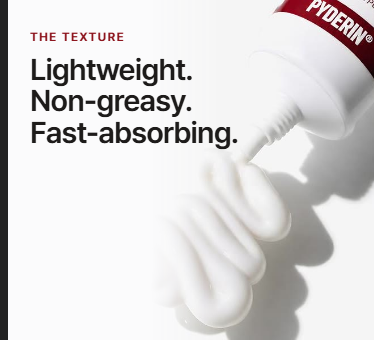
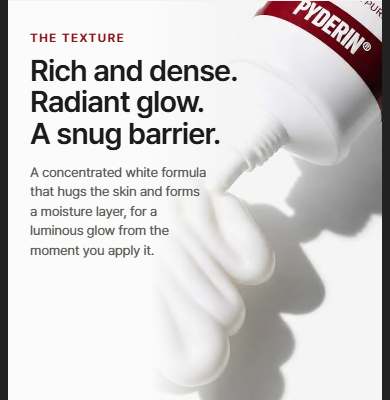
메인 제형 칸 문구 교체: W/O 제형(농축감·윤광·밀착 보호막)

diff --git a/review/index.html b/review/index.html
@@ -55,7 +55,8 @@
 </table></div></div>
 <div class="blk"><div><h2>3. 제형</h2><img src="sec/s03.png" alt=""></div><div class="scroll"><table><tr><th>번호</th><th>위치</th><th>국문 원문</th><th>영문 (가안)</th><th>근거·출처</th><th>확인 요청 사항</th><th>상품기획팀 확인</th><th>해외영업팀 영문 검수</th></tr>
 <tr><td>3-1</td><td class="pos">꼬리표</td><td class="ko">제형</td><td class="en">THE TEXTURE</td><td class="src"></td><td class="ask"></td><td class="box"></td><td class="box"></td></tr>
-<tr><td>3-2</td><td class="pos">큰 글자</td><td class="ko">가볍게. 끈적임 없이. 빠르게 흡수.</td><td class="en">Lightweight. Non-greasy. Fast-absorbing.</td><td class="src">미국 상품 페이지 특징란 표현</td><td class="ask">리프트 크림 제형 설명으로 세 표현이 모두 맞는지</td><td class="box"></td><td class="box"></td></tr>
+<tr><td>3-2</td><td class="pos">큰 글자</td><td class="ko">풍부한 농축감. 압도적인 광채. 탄탄한 밀착 보호막.</td><td class="en">Rich and dense. Radiant glow. A snug barrier.</td><td class="src">상품기획팀 전달 문안(11/11): 실제 제품은 W/O 제형, 끈적임 있음. 기존 &#x27;가볍고 산뜻한&#x27; 문구 교체</td><td class="ask">영문에서 &#x27;압도적인&#x27;은 과장 표현 규정 때문에 &#x27;Radiant&#x27;로 낮췄습니다. 괜찮은지</td><td class="box"></td><td class="box"></td></tr>
+<tr><td>3-3</td><td class="pos">설명 문장</td><td class="ko">피부를 쫀쫀하게 감싸 안는 고농축 백색 포뮬러가 보습막을 형성해 바르는 즉시 눈부신 극강의 윤광을 완성합니다.</td><td class="en">A concentrated white formula that hugs the skin and forms a moisture layer, for a luminous glow from the moment you apply it.</td><td class="src">상품기획팀 전달 문안(11/11)</td><td class="ask">미국 크림 상품 페이지 4번째 이미지에 &#x27;Non-sticky(끈적임 없음)&#x27; 문구가 남아 있습니다. 상품 페이지도 고칠지</td><td class="box"></td><td class="box"></td></tr>
 </table></div></div>
 <div class="blk"><div><h2>4. 전문성 (병의원·약국)</h2><img src="sec/s04.png" alt=""></div><div class="scroll"><table><tr><th>번호</th><th>위치</th><th>국문 원문</th><th>영문 (가안)</th><th>근거·출처</th><th>확인 요청 사항</th><th>상품기획팀 확인</th><th>해외영업팀 영문 검수</th></tr>
 <tr><td>4-1</td><td class="pos">꼬리표</td><td class="ko">전문 채널</td><td class="en">THE PROFESSIONAL CHANNEL</td><td class="src"></td><td class="ask"></td><td class="box"></td><td class="box"></td></tr>

diff --git a/index.html b/index.html
@@ -232,6 +232,9 @@
   .head small, .end small { font-size: 10px; letter-spacing: .16em; margin-top: 14px; }
   .end img { margin: 0 auto; display: block; }
   .end { padding: 36px 22px 34px; }
+  /* 제형 문구 교체(11/11 상품기획팀): W/O 제형 — 농축감·윤광·밀착 보호막 */
+  .tex { height: 400px; }
+  .tex p { font-size: 13.5px; line-height: 1.45; margin: 14px 0 0; max-width: 178px; color: var(--mute); text-wrap: pretty; }
   /* 보기 전용: 설명·번호 없이 시안만 */
   body { background: #d9d5cf; }
   .wrap { padding: 28px 16px 60px; }
@@ -362,7 +365,7 @@
       <span class="cta">Shop now</span>
     </div>
 
-    <div class="sec" style="margin-top:28px"><span class="n">3</span><div class="tex"><span class="eyebrow">The texture</span><h3>Lightweight.<br>Non-greasy.<br>Fast-absorbing.</h3></div></div>
+    <div class="sec" style="margin-top:28px"><span class="n">3</span><div class="tex"><span class="eyebrow">The texture</span><h3>Rich and dense.<br>Radiant glow.<br>A snug barrier.</h3><p>A concentrated white formula that hugs the skin and forms a moisture layer, for a luminous glow from the moment you apply it.</p></div></div>
 
     <div class="sec pro"><span class="n">4</span><div class="title"><span class="eyebrow">The professional channel</span><h3>Found in Korean clinics and pharmacies</h3></div>
       <div class="drv"><video controls playsinline preload="metadata" poster="img/cover-clinic.jpg" src="video/clinic.mp4"></video></div>
